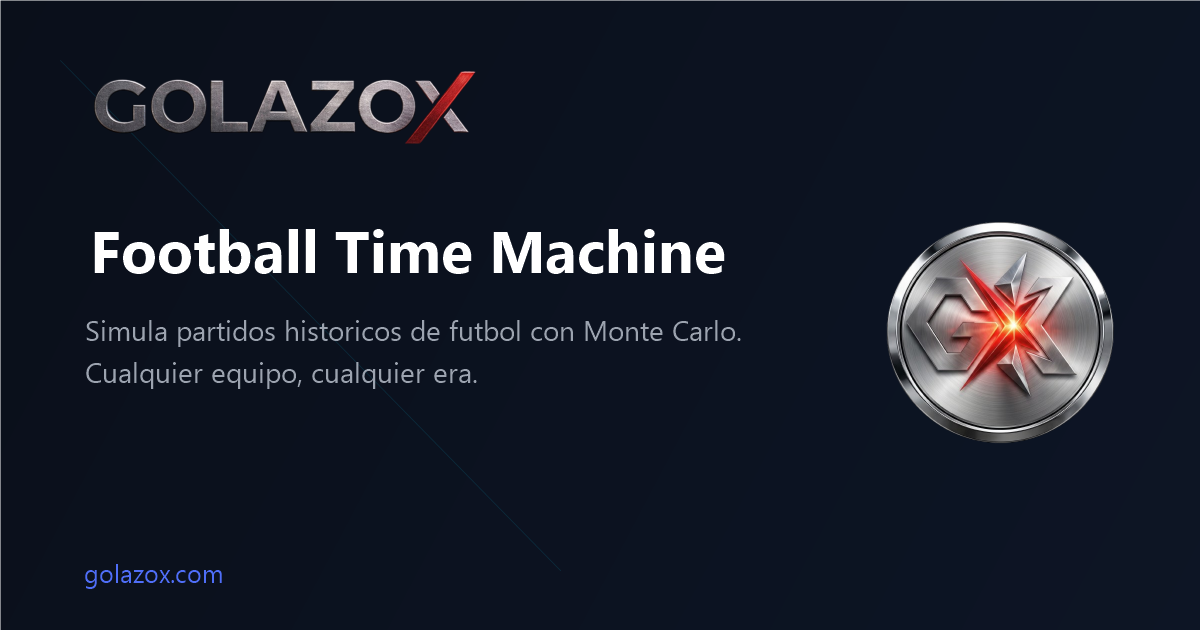
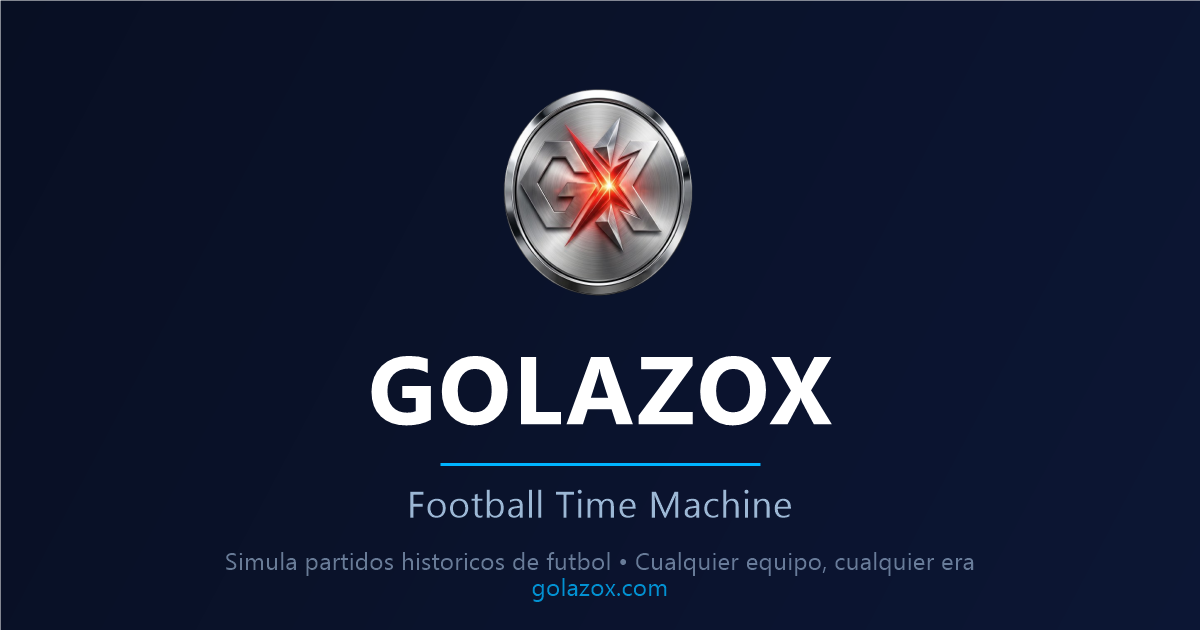
fix: og-image centrada para WhatsApp (sin recortes)

diff --git a/match_engine/webapp/public/index.html b/match_engine/webapp/public/index.html
@@ -33,7 +33,7 @@
   <meta property="og:site_name" content="GolazoX" />
   <meta property="og:title" content="GolazoX — Football Time Machine" />
   <meta property="og:description" content="Simula partidos históricos de fútbol con el motor probabilístico de Monte Carlo. Cualquier equipo, cualquier era." />
-  <meta property="og:image" content="https://golazox.com/og-image.png" />
+  <meta property="og:image" content="https://golazox.com/og-image.png?v=2" />
   <meta property="og:image:width" content="1200" />
   <meta property="og:image:height" content="630" />
   <meta property="og:image:alt" content="GolazoX Football Time Machine" />
@@ -45,7 +45,7 @@
   <meta name="twitter:card" content="summary_large_image" />
   <meta name="twitter:title" content="GolazoX — Football Time Machine" />
   <meta name="twitter:description" content="Simula partidos históricos de fútbol con el motor probabilístico de Monte Carlo." />
-  <meta name="twitter:image" content="https://golazox.com/og-image.png" />
+  <meta name="twitter:image" content="https://golazox.com/og-image.png?v=2" />
   <meta name="twitter:image:alt" content="GolazoX Football Time Machine" />
 
   <!-- Fuente Rajdhani — auto-alojada (public/fonts/) sin tracking de Google -->